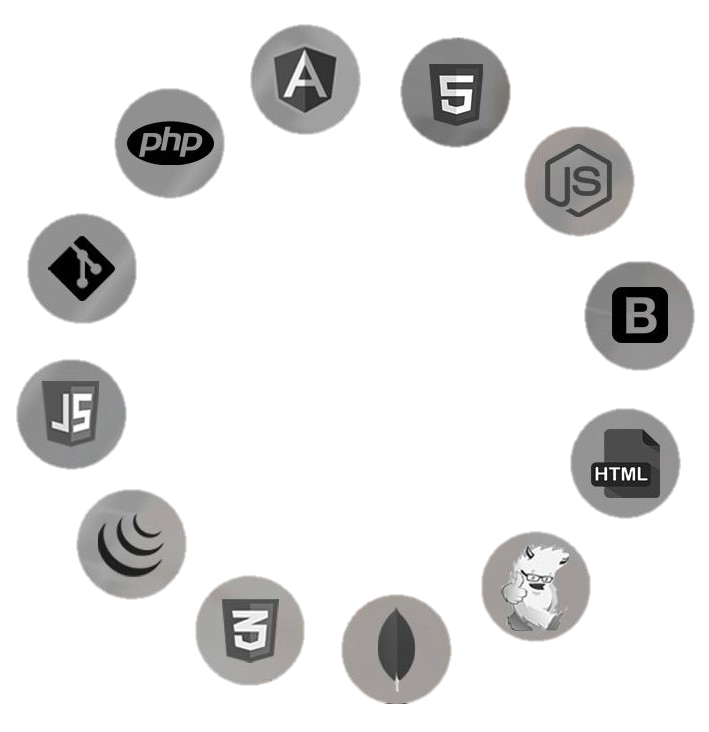
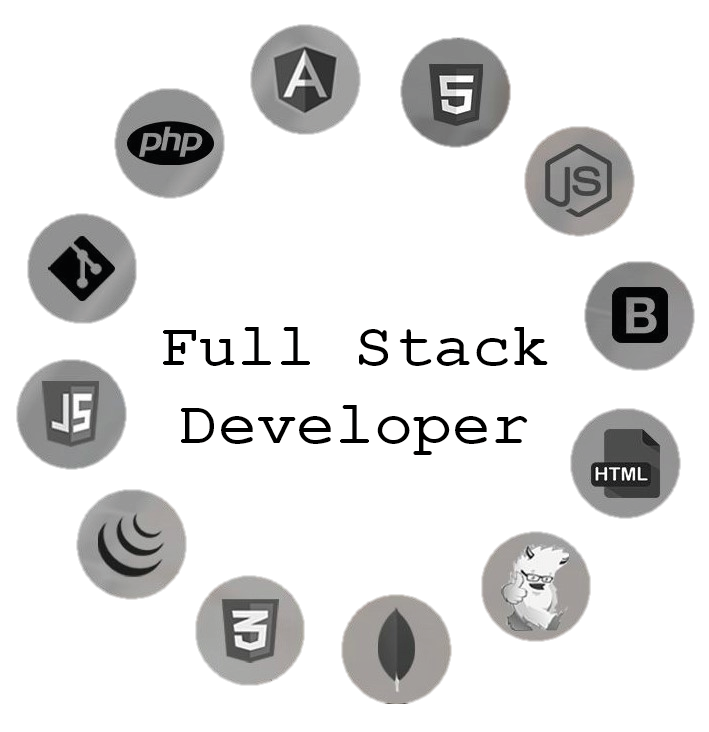
Se corrigio wattermark

diff --git a/sass/main.css b/sass/main.css
@@ -228,22 +228,6 @@ header {
   width: 100%;
 }
 
-.watermark_full {
-  position: relative;
-}
-
-.watermark_full::after {
-  content: "Full Stack";
-  font-weight: bold;
-  position: absolute;
-  top: 9rem;
-  right: 5.5rem;
-  opacity: 0.9;
-  color: black;
-  font-size: 2.5rem;
-  -webkit-text-stroke: 2px white;
-}
-
 .diseno h2 {
   text-align: center;
 }
@@ -511,11 +495,6 @@ label {
   .img_full img {
     width: 50%;
   }
-  .watermark_full::after {
-    top: 8.5rem;
-    right: 17rem;
-    font-size: 2.5rem;
-  }
   .menu_footer {
     margin-bottom: 5rem !important;
   }
@@ -552,11 +531,6 @@ label {
   }
   .img_full img {
     width: 100%;
-  }
-  .watermark_full::after {
-    top: 17rem;
-    right: 11rem;
-    font-size: 5rem;
   }
   .diseno h2 {
     text-align: center;
@@ -690,11 +664,6 @@ label {
   }
   .chat {
     padding-top: 2rem !important;
-  }
-  .watermark_full::after {
-    font-size: 4.5rem;
-    top: 12rem;
-    right: 6.5rem;
   }
   .fr2_2 {
     background-color: rgba(37, 38, 42, 0.7);

diff --git a/sass/_mobile.scss b/sass/_mobile.scss
@@ -128,20 +128,7 @@
 .img_full img{
     width: 100%;
 }
-.watermark_full{
-    position: relative;
-}
-.watermark_full::after{
-    content: 'Full Stack';
-    font-weight: bold;
-    position:absolute;
-    top: 9rem;
-    right: 5.5rem;
-    opacity: 0.9;
-    color: black;
-    font-size: 2.5rem;
-    -webkit-text-stroke: 2px white;
-}
+
 .diseno{
     h2{
         text-align: center;

diff --git a/sass/_desktop.scss b/sass/_desktop.scss
@@ -105,11 +105,7 @@
     .chat{
         padding-top: 2rem !important;
     }
-    .watermark_full::after{
-        font-size: 4.5rem;
-        top: 12rem;
-        right: 6.5rem;
-    }
+
     .fr2_2{
         background-color: rgba(37, 38, 42, 0.7);
         width: 94%;

diff --git a/sass/_tabletPortrait.scss b/sass/_tabletPortrait.scss
@@ -5,11 +5,6 @@
             width: 50%;
         }
     }
-    .watermark_full::after{
-        top: 8.5rem;
-        right: 17rem;
-        font-size: 2.5rem;
-    }
     .menu_footer{
         margin-bottom: 5rem !important;
         ul{

diff --git a/sass/_tabletLandscape.scss b/sass/_tabletLandscape.scss
@@ -11,11 +11,6 @@
             width: 100%;
         }
     }
-    .watermark_full::after{
-        top: 17rem;
-        right: 11rem;
-        font-size: 5rem;
-    }
     .diseno h2{
         text-align: center;
         font-size: 3rem;

diff --git a/sass/_globales.scss b/sass/_globales.scss
@@ -3,7 +3,7 @@ $verde: #65F3AB;
 $fondo_body: rgba(37, 38, 42, 0.8);
 $fondo_menu: rgba(37,38,42,1);
 $blanco: white;
-$boreder: 1px solid red;
+$border: 1px solid red;
 
 /*logo*/
 .container-fluid{
